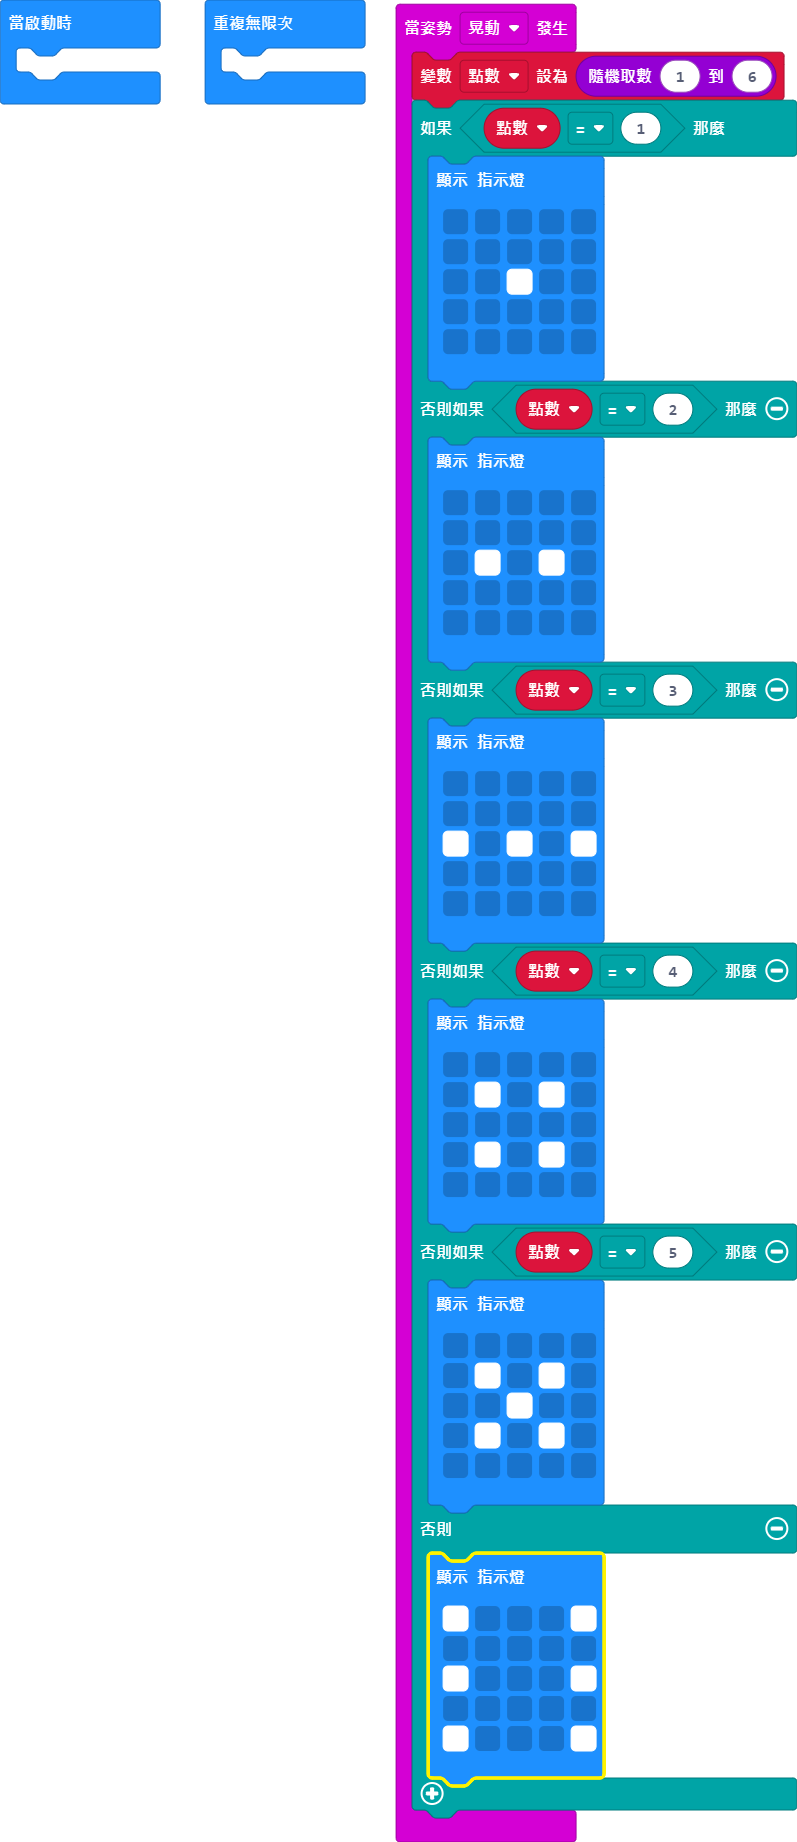
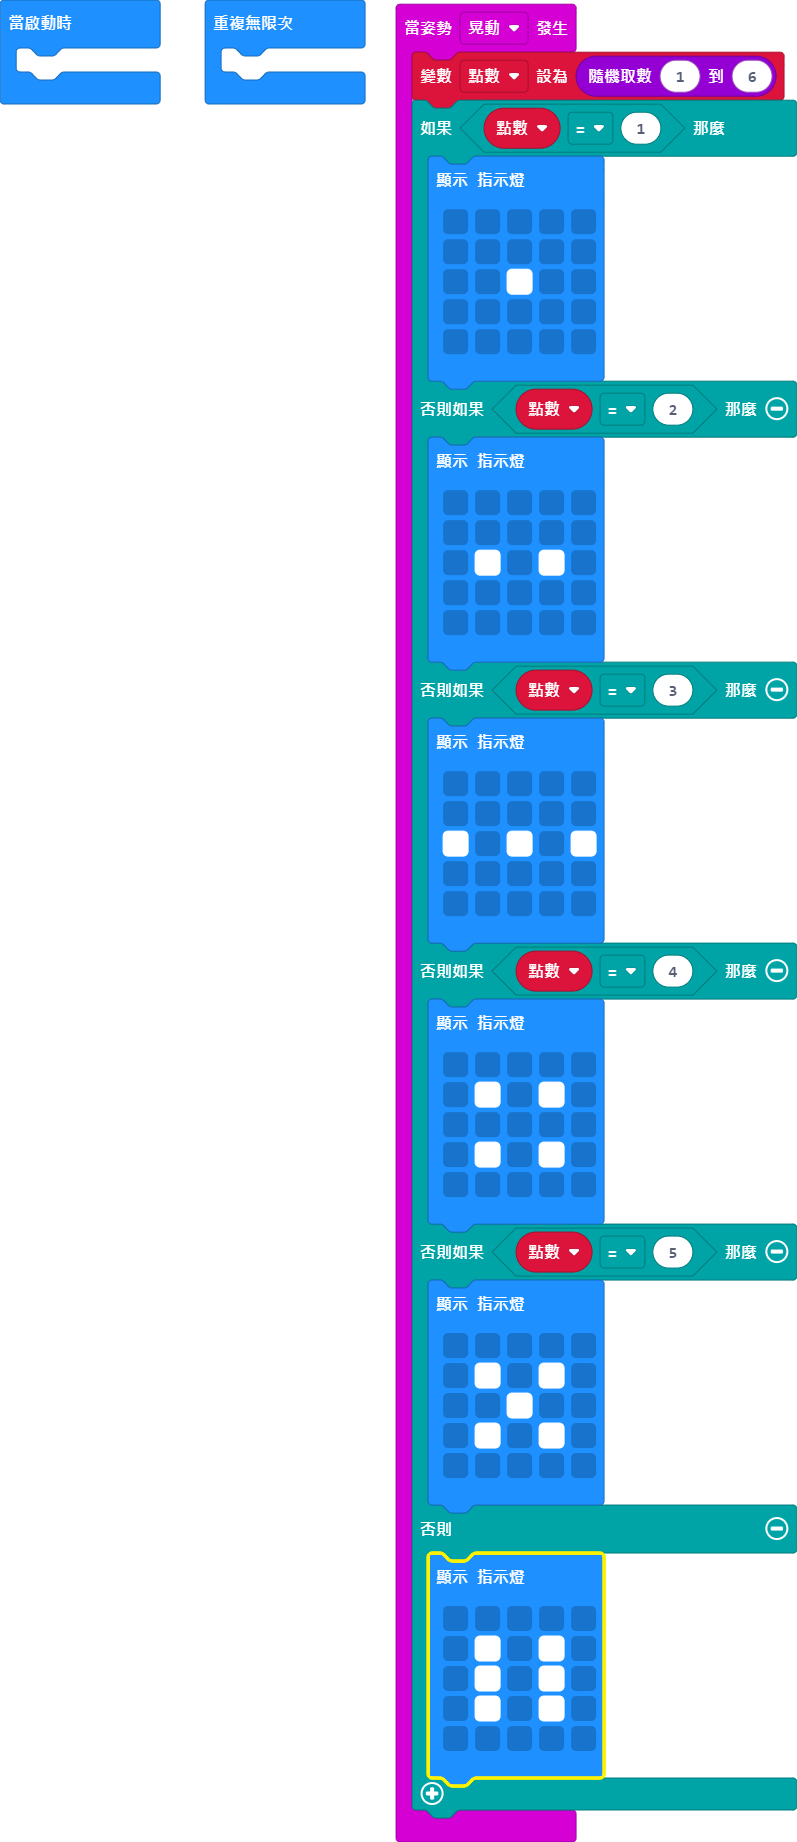
更新 main.blocks, main.ts

Changed region(s): [[0.6625, 0.8664, 0.7528, 0.9593], [0.542, 0.8664, 0.6324, 0.9593]]

diff --git a/main.ts b/main.ts
@@ -43,11 +43,11 @@ input.onGesture(Gesture.Shake, function () {
             `)
     } else {
         basic.showLeds(`
-            # . . . #
             . . . . .
-            # . . . #
+            . # . # .
+            . # . # .
+            . # . # .
             . . . . .
-            # . . . #
             `)
     }
 })
